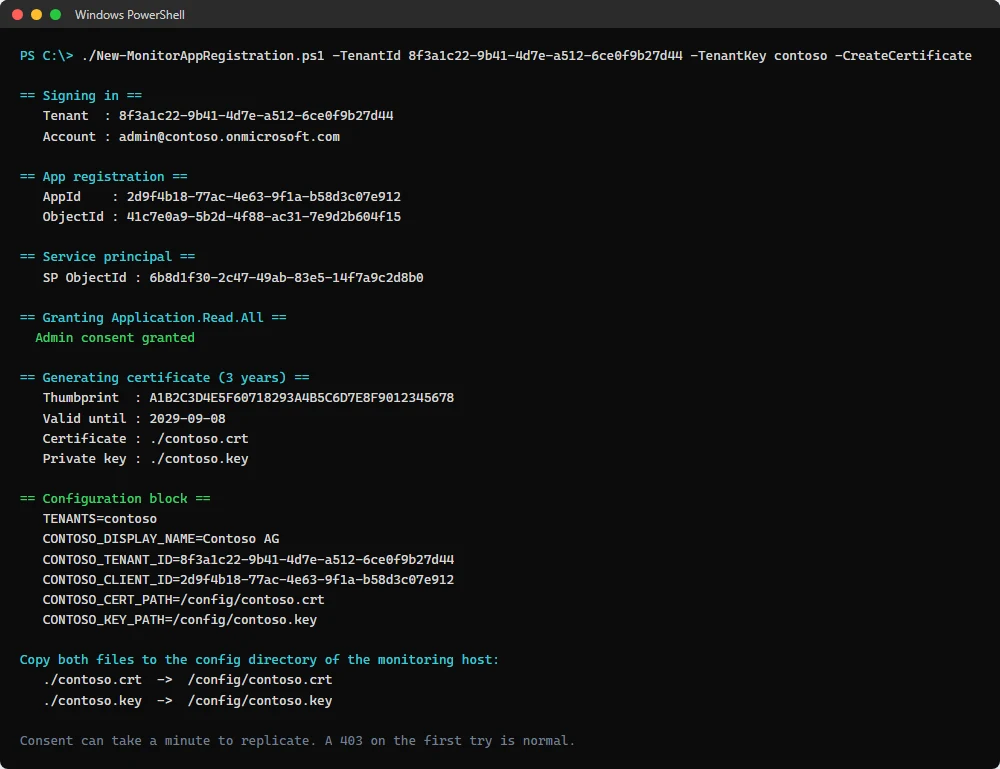
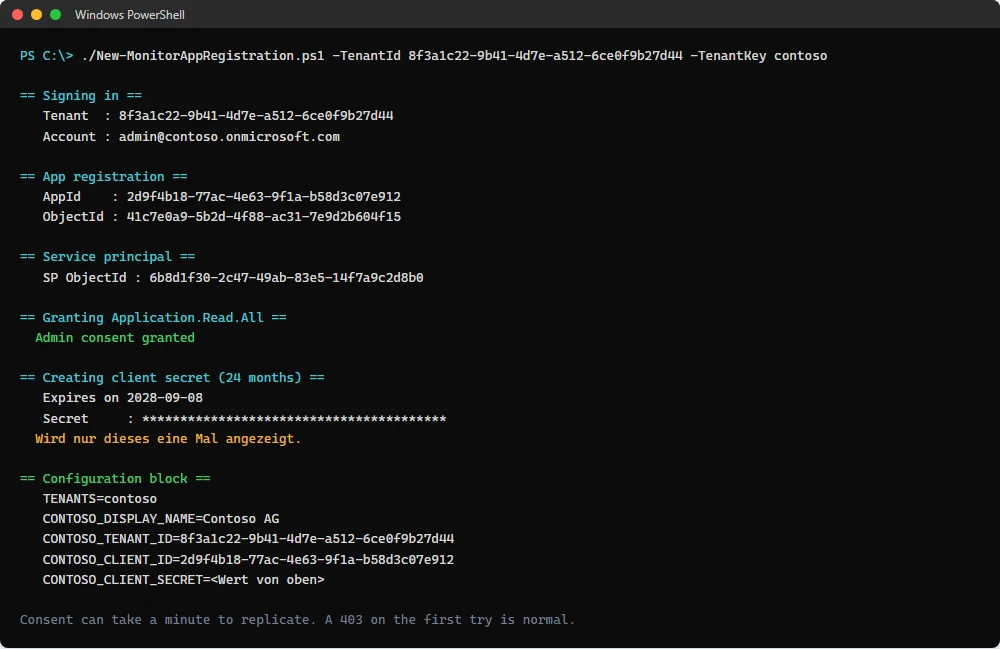
Make the client secret the way that works everywhere
Bisher stand das Zertifikat ueberall als Empfehlung: laenger gueltig, kein
Geheimnis in der Kommandozeile. Das stimmt, geht aber am Alltag vorbei. Ein
Client Secret funktioniert in jedem Tenant und auf jeder Instanz, ohne
Zertifikatsspeicher, ohne privaten Schluessel auf dem ueberwachenden Host und
ohne Rechtevergabe darauf. Auf der PRTG-Instanz faellt damit genau der Schritt
weg, der am haeufigsten schiefgeht.

Der Einwand gegen das Secret ist sein Ablauf nach 24 Monaten. Der zaehlt hier
weniger als anderswo, weil dieses Projekt genau solche Ablaeufe meldet, auch
den seines eigenen Zugangsdatums.

Das Zertifikat bleibt vollstaendig erhalten. Es ist die Antwort auf einen
Tenant, dessen App Management Policy Client Secrets verbietet oder kuerzer
begrenzt, und steht in der Sensor-Anleitung als aufklappbarer Sonderfall.

Geaendert hat sich, was vorgeschlagen wird:

- Formular zeigt "Client Secret (empfohlen)" zuerst und vorausgewaehlt
- Customer.auth_type faellt auf AUTH_SECRET zurueck statt auf AUTH_CERT. Die
  Schnittstelle tat das laengst, das Modell widersprach ihr
- Beide PowerShell-Scripts beschreiben das Secret als Normalweg
- Die Anleitungen fuehren den Secret-Weg als Hauptpfad, mit neuen Screenshots
- Startseite und README ziehen nach

Ein Test haelt die Vorgabe fest, damit Formular und Modell nicht wieder
auseinanderlaufen.

Claude-Session: https://claude.ai/code/session_017bfav4R8uYoW7NfTjsZyhj

Changed region(s): [[0.0, 0.0, 1.0, 1.0]]

diff --git a/docs/anleitung-prtg.html b/docs/anleitung-prtg.html
@@ -64,39 +64,43 @@ Zertifikat in einem Durchgang.</p>
     <h3>Script ausführen</h3>
 <pre><code>./New-MonitorAppRegistration.ps1 `
   -TenantId 8f3a1c22-9b41-4d7e-a512-6ce0f9b27d44 `
-  -TenantKey contoso `
-  -CreateCertificate `
-  -CertificateYears 3</code></pre>
+  -TenantKey contoso</code></pre>
+    <p>Ohne weiteren Schalter entsteht ein <strong>Client Secret</strong>. Das ist der
+    Normalfall: es funktioniert in jedem Tenant, und auf der PRTG-Instanz entfällt damit
+    der Zertifikatsimport samt Rechtevergabe, also der Schritt, der am häufigsten
+    schiefgeht.</p>
 
     <figure>
       <img src="assets/ps-kunde-anlegen.webp" alt="PowerShell-Fenster mit der Ausgabe des Scripts: App-Registrierung, Service Principal, erteilte Berechtigung Application.Read.All, erzeugtes Zertifikat mit Fingerabdruck und Konfigurationsblock." loading="lazy">
-      <figcaption>Für den Sensor werden drei Werte gebraucht: Tenant-ID, AppId und der
-      Fingerabdruck des Zertifikats.</figcaption>
+      <figcaption>Für den Sensor werden drei Werte gebraucht: Tenant-ID, AppId und das
+      Client Secret. Sie gehen in die Platzhalter 1 bis 3 am Gerät.</figcaption>
     </figure>
   </div>
 </div>
 
-<div class="step">
-  <div class="n">2</div>
-  <div class="body">
-    <h3>Zertifikat auf die PRTG-Instanz bringen</h3>
-    <p>Der Sensor liest den privaten Schlüssel aus dem Zertifikatsspeicher, nicht aus einer
-    Datei. Aus den beiden PEM-Dateien wird deshalb eine PFX gebaut und importiert:</p>
+<div class="note">
+  <p>Das Secret landet in den Sensorparametern und damit in der Kommandozeile des
+  Sensorprozesses, die jeder lokale Prozess mitlesen kann. Auf der PRTG-Instanz sind das
+  Administratoren, in den meisten Umgebungen also vertretbar. Wer das nicht will oder in
+  einem Tenant arbeitet, der Client Secrets verbietet, nimmt den Zertifikatsweg unten.</p>
+</div>
+
+<details>
+  <summary><strong>Sonderfall: Zertifikat statt Secret</strong></summary>
+  <p>Nötig, wenn eine App Management Policy im Kundentenant Client Secrets verbietet oder
+  auf wenige Monate begrenzt. Das Script bekommt dann <code>-CreateCertificate</code>, und
+  auf der PRTG-Instanz kommt Arbeit dazu: der Sensor liest den privaten Schlüssel aus dem
+  Zertifikatsspeicher, nicht aus einer Datei.</p>
 <pre><code>openssl pkcs12 -export -inkey contoso.key -in contoso.crt -out contoso.pfx
 
 Import-PfxCertificate -FilePath .\contoso.pfx `
   -CertStoreLocation Cert:\LocalMachine\My</code></pre>
-    <p>Danach in <code>certlm.msc</code> das Zertifikat suchen, Rechtsklick, <em>Alle Aufgaben</em>,
-    <em>Private Schlüssel verwalten</em>, und dem Dienstkonto von PRTG Leserecht geben.
-    Ohne diesen Schritt findet der Sensor das Zertifikat, kann es aber nicht benutzen.</p>
-  </div>
-</div>
-
-<div class="note">
-  <p>Alternativ geht auch ein Client Secret. Es steht dann allerdings in der Kommandozeile
-  des Sensorprozesses, und Entra kappt es nach spätestens 24 Monaten. Beim Zertifikat steht
-  in den Parametern nur der Fingerabdruck, und der ist kein Geheimnis.</p>
-</div>
+  <p>Danach in <code>certlm.msc</code> das Zertifikat suchen, Rechtsklick, <em>Alle Aufgaben</em>,
+  <em>Private Schlüssel verwalten</em>, und dem Dienstkonto von PRTG Leserecht geben.
+  Ohne diesen Schritt findet der Sensor das Zertifikat, kann es aber nicht benutzen.
+  In den Sensorparametern steht dann <code>-CertificateThumbprint</code> statt
+  <code>-ClientSecret</code>, und Platzhalter 3 bleibt leer.</p>
+</details>
 
 <h2>Teil 2: Script auf der Instanz ablegen</h2>
 
@@ -139,7 +143,7 @@ Set-ExecutionPolicy -Scope LocalMachine RemoteSigned</code></pre>
     das PRTG später bekommt.</p>
 <pre><code>cd 'C:\Program Files (x86)\PRTG Network Monitor\Custom Sensors\EXEXML'
 .\Get-EntraSecretExpiry.ps1 -TenantId &lt;tenant&gt; -ClientId &lt;client&gt; `
-  -CertificateThumbprint &lt;thumb&gt;</code></pre>
+  -ClientSecret &lt;secret&gt;</code></pre>
     <figure>
       <img src="assets/ps-prtg-testlauf.webp" alt="PowerShell-Fenster mit dem XML des Sensors: Kanäle für minimale Restlaufzeit, kritische Credentials und eine einzelne Anwendung, plus Meldungstext." loading="lazy">
       <figcaption>Ein erfolgreicher Lauf. Drei feste Kanäle plus einer pro Anwendung und
@@ -163,7 +167,7 @@ Nicht <em>Credentials for Microsoft 365</em>, die ist den eingebauten Sensoren v
   <tr><th>Platzhalter</th><th>Beschreibung</th><th>Wert</th></tr>
   <tr><td>Placeholder 1</td><td>Entra Tenant ID</td><td>Verzeichnis-ID</td></tr>
   <tr><td>Placeholder 2</td><td>Entra Client ID</td><td>Anwendungs-ID (AppId)</td></tr>
-  <tr><td>Placeholder 3</td><td>Entra Client Secret</td><td>nur ohne Zertifikat</td></tr>
+  <tr><td>Placeholder 3</td><td>Entra Client Secret</td><td>Wert aus dem Script</td></tr>
 </table>
 </div>
 
@@ -179,7 +183,7 @@ der Auswahlliste <em>EXE/Script</em>.</p>
   <tr><th>Einstellung</th><th>Wert</th></tr>
   <tr><td>Sensor Name</td><td><code>Entra Secret Expiry</code></td></tr>
   <tr><td>EXE/Script</td><td><code>Get-EntraSecretExpiry.ps1</code></td></tr>
-  <tr><td>Parameters</td><td><code>-TenantId "%scriptplaceholder1" -ClientId "%scriptplaceholder2" -CertificateThumbprint "A1B2C3..."</code></td></tr>
+  <tr><td>Parameters</td><td><code>-TenantId "%scriptplaceholder1" -ClientId "%scriptplaceholder2" -ClientSecret "%scriptplaceholder3"</code></td></tr>
   <tr><td>Environment</td><td><code>Default</code></td></tr>
   <tr><td>Security Context</td><td>Use security context of probe service</td></tr>
   <tr><td>Mutex Name</td><td><code>entra-secret-monitor</code></td></tr>
@@ -197,10 +201,10 @@ der Auswahlliste <em>EXE/Script</em>.</p>
   statt gleichzeitig.</p>
 </div>
 
-<h3>Wenn kein Zertifikat verwendet wird</h3>
+<h3>Wenn ein Zertifikat verwendet wird</h3>
 
-<p>Dann tritt Placeholder 3 an die Stelle des Fingerabdrucks:</p>
-<pre><code>-TenantId "%scriptplaceholder1" -ClientId "%scriptplaceholder2" -ClientSecret "%scriptplaceholder3"</code></pre>
+<p>Dann tritt der Fingerabdruck an die Stelle von Placeholder 3, der leer bleibt:</p>
+<pre><code>-TenantId "%scriptplaceholder1" -ClientId "%scriptplaceholder2" -CertificateThumbprint "A1B2C3..."</code></pre>
 
 <h2>Kanäle</h2>
 

diff --git a/docs/anleitung-kunde.html b/docs/anleitung-kunde.html
@@ -37,7 +37,7 @@
     <h1>Kunde einrichten</h1>
     <p class="lede">
       Ein neuer Kundentenant ist in <strong>zehn Minuten</strong> überwacht. Das Script legt die
-      App-Registrierung an, erteilt die eine nötige Berechtigung und erzeugt das Zertifikat.
+      App-Registrierung an, erteilt die eine nötige Berechtigung und erzeugt das Client Secret.
       Danach wird der Kunde im Portal erfasst.
     </p>
   </div>
@@ -93,10 +93,17 @@
     kleingeschrieben sein.</p>
 <pre><code>./New-MonitorAppRegistration.ps1 `
   -TenantId 8f3a1c22-9b41-4d7e-a512-6ce0f9b27d44 `
-  -TenantKey contoso `
-  -CreateCertificate</code></pre>
-    <p>Es öffnet sich die Anmeldung am Kundentenant. Über SSH oder in einem Terminal ohne
-    Browser hilft <code>-UseDeviceCode</code>.</p>
+  -TenantKey contoso</code></pre>
+    <p>Ohne weiteren Schalter legt das Script ein <strong>Client Secret</strong> mit 24 Monaten
+    Laufzeit an. Das ist der Normalfall und funktioniert in jedem Tenant. Es öffnet sich die
+    Anmeldung am Kundentenant; über SSH oder in einem Terminal ohne Browser hilft
+    <code>-UseDeviceCode</code>.</p>
+    <div class="note">
+      <p>Braucht der Tenant ein Zertifikat, weil eine App Management Policy Client Secrets
+      verbietet oder kürzer begrenzt, kommt <code>-CreateCertificate</code> dazu. Das Script
+      schreibt dann <code>contoso.crt</code> und <code>contoso.key</code> ins
+      Arbeitsverzeichnis, und im Portal wird statt des Secrets deren Inhalt hinterlegt.</p>
+    </div>
 
     <figure>
       <img src="assets/ps-kunde-anlegen.webp" alt="PowerShell-Fenster mit der Ausgabe des Scripts New-MonitorAppRegistration.ps1: App-Registrierung, Service Principal, erteilte Berechtigung, erzeugtes Zertifikat und der Konfigurationsblock." loading="lazy">
@@ -110,15 +117,15 @@
   <div class="n">3</div>
   <div class="body">
     <h3>Notieren, was gebraucht wird</h3>
-    <p>Aus der Ausgabe werden vier Werte übernommen. Die beiden PEM-Dateien liegen im
-    aktuellen Verzeichnis.</p>
+    <p>Aus der Ausgabe werden drei Werte übernommen. Das Secret erscheint genau einmal,
+    direkt nach dem Anlegen.</p>
     <div class="tablewrap">
     <table>
       <tr><th>Wert</th><th>Woher</th><th>Wofür</th></tr>
       <tr><td>Tenant-ID</td><td>Parameter <code>-TenantId</code></td><td>Feld im Portal</td></tr>
       <tr><td>AppId</td><td>Abschnitt <em>App registration</em></td><td>Client-ID im Portal</td></tr>
-      <tr><td><code>contoso.crt</code></td><td>Datei im Arbeitsverzeichnis</td><td>Zertifikat (PEM)</td></tr>
-      <tr><td><code>contoso.key</code></td><td>Datei im Arbeitsverzeichnis</td><td>Privater Schlüssel (PEM)</td></tr>
+      <tr><td>Client Secret</td><td>Abschnitt <em>Creating client secret</em></td><td>Feld im Portal</td></tr>
+      <tr><td><code>contoso.crt</code>, <code>contoso.key</code></td><td>nur mit <code>-CreateCertificate</code></td><td>statt des Secrets</td></tr>
     </table>
     </div>
   </div>
@@ -144,24 +151,24 @@
       zu wiederholen.</figcaption>
     </figure>
 
-    <p>Bei <em>Authentisierung</em> wird <strong>Zertifikat</strong> gewählt. Das Formular
-    blendet daraufhin das Feld für das Client Secret aus und zeigt nur die beiden
-    PEM-Felder.</p>
+    <p>Bei <em>Authentisierung</em> steht <strong>Client Secret</strong> bereits als Vorgabe.
+    Das Formular zeigt dann nur das Secret-Feld, die beiden PEM-Felder sind ausgeblendet.
+    Hier kommt der Wert aus dem Abschnitt <em>Creating client secret</em> hinein.</p>
 
     <figure>
-      <img src="assets/form-zertifikat.webp" alt="Formular Kunde anlegen mit Auswahl Zertifikat: sichtbar sind die Felder Zertifikat PEM und Privater Schlüssel PEM, das Feld Client Secret ist ausgeblendet." loading="lazy">
+      <img src="assets/form-secret.webp" alt="Formular Kunde anlegen mit der Vorgabe Client Secret: nur das Feld Client Secret ist sichtbar, die beiden PEM-Felder sind ausgeblendet." loading="lazy">
+      <figcaption>Vorgabe Client Secret. Entra kappt die Laufzeit bei 24 Monaten, und genau
+      diesen Ablauf meldet das Portal danach selbst.</figcaption>
+    </figure>
+
+    <p>Nur wenn der Tenant keine Client Secrets zulässt, wird auf <strong>Zertifikat</strong>
+    umgestellt. Dann verschwindet das Secret-Feld und die beiden PEM-Felder erscheinen.</p>
+
+    <figure>
+      <img src="assets/form-zertifikat.webp" alt="Dasselbe Formular mit Auswahl Zertifikat: sichtbar sind die Felder Zertifikat PEM und Privater Schlüssel PEM, das Feld Client Secret ist ausgeblendet." loading="lazy">
       <figcaption>Auswahl Zertifikat. Der Inhalt von <code>contoso.crt</code> kommt in das
       obere Feld, der von <code>contoso.key</code> in das untere, jeweils mit BEGIN- und
       END-Zeile.</figcaption>
-    </figure>
-
-    <p>Wer stattdessen ein Client Secret hinterlegt, wählt <strong>Client Secret</strong>.
-    Dann verschwinden die PEM-Felder und nur das Secret bleibt.</p>
-
-    <figure>
-      <img src="assets/form-secret.webp" alt="Dasselbe Formular mit Auswahl Client Secret: nur das Feld Client Secret ist sichtbar, die beiden PEM-Felder sind ausgeblendet." loading="lazy">
-      <figcaption>Auswahl Client Secret. Entra kappt Secrets bei 24 Monaten, Zertifikate
-      laufen bis zu zehn Jahre.</figcaption>
     </figure>
   </div>
 </div>

diff --git a/portal/templates/customer_form.html b/portal/templates/customer_form.html
@@ -37,8 +37,10 @@
     <h2>Authentisierung</h2>
     <div class="field">
       {{ form.auth_type.label }}{{ form.auth_type(**{"data-auth-type": "1"}) }}
-      <span class="hint">Zertifikate laufen bis zu zehn Jahre, Client Secrets kappt Entra
-        bei 24 Monaten. Für 50 Kunden ist das Zertifikat der wartungsärmere Weg.</span>
+      <span class="hint">Das Client Secret ist der Normalfall: es funktioniert in jedem
+        Tenant und braucht keinen Zertifikatsspeicher. Entra kappt es bei 24 Monaten,
+        und genau diesen Ablauf überwacht dieses Portal. Das Zertifikat ist für Tenants
+        gedacht, die Client Secrets per Richtlinie verbieten oder kürzer begrenzen.</span>
     </div>
     <div class="field" data-auth-only="secret">
       {{ form.client_secret.label }}{{ form.client_secret(autocomplete="new-password") }}

diff --git a/docs/index.html b/docs/index.html
@@ -487,9 +487,10 @@ curl -X POST https://portal/api/v1/customers \
         <p>Runs as UID 10001, read-only root filesystem, no new privileges.</p>
       </div>
       <div>
-        <h3>Certificate or secret</h3>
-        <p>Certificate authentication is preferred, since Entra caps secrets at
-           24 months.</p>
+        <h3>Secret or certificate</h3>
+        <p>A client secret is the normal way and works in every tenant. Its
+           expiry is what this watches. Certificates for tenants that restrict
+           secrets.</p>
       </div>
       <div>
         <h3>Tested</h3>

diff --git a/tools/demo_pages.py b/tools/demo_pages.py
@@ -133,14 +133,10 @@ def fuelle_daten(app):
             key=eintrag["key"], display_name=eintrag["name"],
             tenant_id="%08d-1111-2222-3333-444444444444" % (platz + 1),
             client_id="%08d-5555-6666-7777-888888888888" % (platz + 1),
-            auth_type="certificate", cert_pem="-----BEGIN CERTIFICATE-----\n"
-                                              "Beispieldaten\n"
-                                              "-----END CERTIFICATE-----\n",
-            key_pem_enc=crypto.encrypt(
-                "Beispieldaten, kein echter Schluessel", schluessel,
-                crypto.aad_for("customer", eintrag["key"], "key_pem_enc")),
-            cert_thumbprint="A1B2C3D4E5F6%02d" % platz,
-            cert_not_after=jetzt + timedelta(days=900),
+            auth_type="secret",
+            client_secret_enc=crypto.encrypt(
+                "Beispieldaten, kein echtes Secret", schluessel,
+                crypto.aad_for("customer", eintrag["key"], "client_secret_enc")),
             warn_days=30, error_days=14, max_channels=45,
             include_sp=False, show_expired=False,
             prtg_token=new_token(), slot_minute=platz * 240, is_active=True,

diff --git a/tests/test_customers.py b/tests/test_customers.py
@@ -545,6 +545,18 @@ class CustomerKeyRuleTests(unittest.TestCase):
         seite = self.client.get("/kunden/neu").get_data(as_text=True)
         self.assertIn("Nur Kleinbuchstaben", seite)
 
+    def test_client_secret_is_the_offered_default(self):
+        # Das Secret funktioniert in jedem Tenant und auf jedem Host. Das
+        # Zertifikat bleibt fuer Tenants, die Secrets per Richtlinie
+        # einschraenken, ist aber nicht mehr der Vorschlag.
+        seite = self.client.get("/kunden/neu").get_data(as_text=True)
+        self.assertIn('selected value="secret"', seite.replace("' ", "'"))
+        self.assertIn("Client Secret (empfohlen)", seite)
+
+        from portal.models import AUTH_SECRET, Customer
+        self.assertEqual(AUTH_SECRET, Customer.__table__.c.auth_type.default.arg,
+                         "die Vorgabe im Modell weicht vom Formular ab")
+
     def test_the_auth_fields_are_tagged_for_the_method_they_belong_to(self):
         # The toggle hides what the chosen method does not use. Without the
         # markers the script has nothing to switch and every field stays visible.

diff --git a/portal/forms.py b/portal/forms.py
@@ -134,9 +134,14 @@ class CustomerForm(FlaskForm):
     tenant_id = GuidField("Tenant-ID (Verzeichnis-ID)", validators=[DataRequired()])
     client_id = GuidField("Client-ID (Anwendungs-ID)", validators=[DataRequired()])
 
+    # Client Secret steht zuerst und ist die Vorgabe: es funktioniert in jedem
+    # Tenant und auf jeder Instanz, ohne Zertifikatsspeicher und ohne Rechte
+    # auf einen privaten Schluessel. Das Zertifikat bleibt fuer Tenants, die
+    # Client Secrets per Richtlinie verbieten oder begrenzen.
     auth_type = SelectField("Authentisierung", choices=[
-        (AUTH_CERT, "Zertifikat (empfohlen)"),
-        (AUTH_SECRET, "Client Secret")], validators=[DataRequired()])
+        (AUTH_SECRET, "Client Secret (empfohlen)"),
+        (AUTH_CERT, "Zertifikat")], validators=[DataRequired()],
+        default=AUTH_SECRET)
     client_secret = PasswordField("Client Secret", validators=[Optional(), Length(max=512)])
     cert_pem = TextAreaField("Zertifikat (PEM)", validators=[Optional(), Length(max=20000)])
     key_pem = TextAreaField("Privater Schlüssel (PEM)",

diff --git a/portal/models.py b/portal/models.py
@@ -143,7 +143,7 @@ class Customer(Base):
 
     tenant_id: Mapped[str] = mapped_column(String(64), nullable=False)
     client_id: Mapped[str] = mapped_column(String(64), nullable=False)
-    auth_type: Mapped[str] = mapped_column(String(16), default=AUTH_CERT, nullable=False)
+    auth_type: Mapped[str] = mapped_column(String(16), default=AUTH_SECRET, nullable=False)
     client_secret_enc: Mapped[str] = mapped_column(Text, default="")
     cert_pem: Mapped[str] = mapped_column(Text, default="")
     key_pem_enc: Mapped[str] = mapped_column(Text, default="")

diff --git a/README.md b/README.md
@@ -103,8 +103,12 @@ interval does not hammer Graph.
 2. **API permissions** -> Microsoft Graph -> *Application permission*
    `Application.Read.All`, then grant admin consent. Nothing else, no
    `Directory.Read.All`.
-3. **Authentication**: certificate is recommended, since a client secret expires
-   after 24 months at most and would take the monitoring down with it.
+3. **Authentication**: a client secret is the normal way. It works in every
+   tenant and on every host, with no certificate store and no private key to
+   place anywhere. Entra caps it at 24 months, and that expiry is exactly what
+   this project reports on, including for its own credential. Use a certificate
+   when the tenant restricts client secrets through an app management policy,
+   or when 24 months is too short for how you operate.
 
 ```bash
 openssl req -x509 -newkey rsa:2048 -nodes -days 1095 \

diff --git a/docs/FUNCTIONS.md b/docs/FUNCTIONS.md
@@ -190,7 +190,7 @@ nicht eine Ausnahme vom Aufräumen.
 | 34 | `pre_validate(self, form)` | kein Rückgabewert | Reject anything that is not a GUID before the form is used. |
 | 41 | `schluessel_hinweis(wert)` | Wert | Return the specific reason why a customer key is invalid, or None. |
 | 75 | `pre_validate(self, form)` | kein Rückgabewert | Reject an invalid key with the reason that applies to this value. |
-| 161 | `validate(self, extra_validators=None)` | Wert | Enforce that the chosen authentication method is actually filled in. |
+| 166 | `validate(self, extra_validators=None)` | Wert | Enforce that the chosen authentication method is actually filled in. |
 
 ### `portal/models.py`
 
